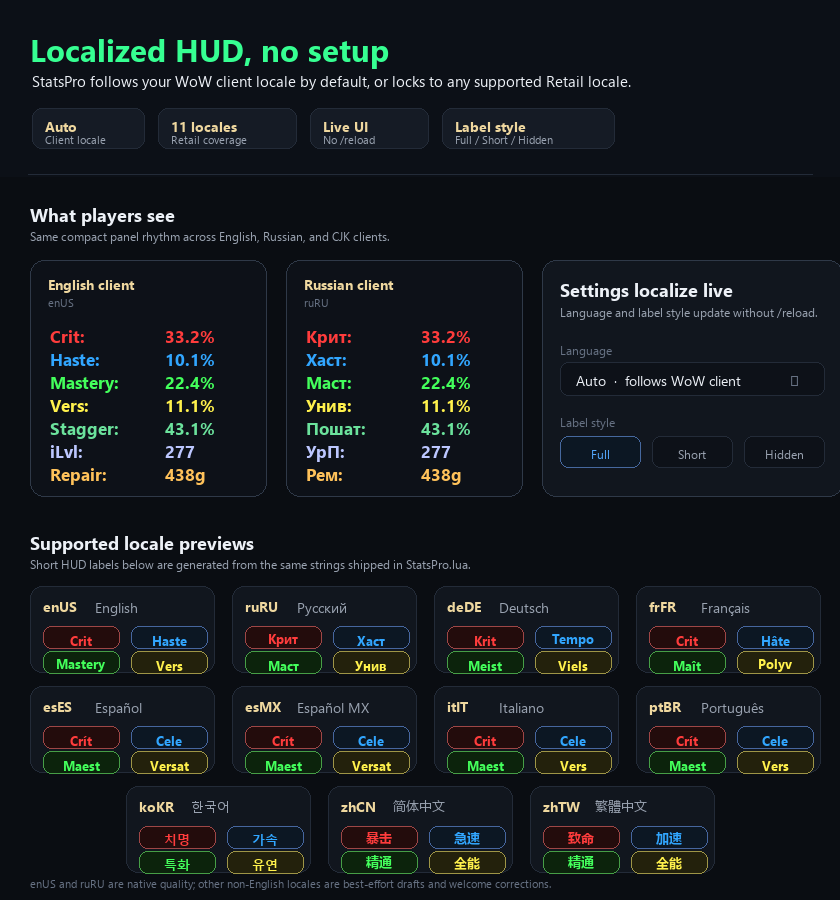
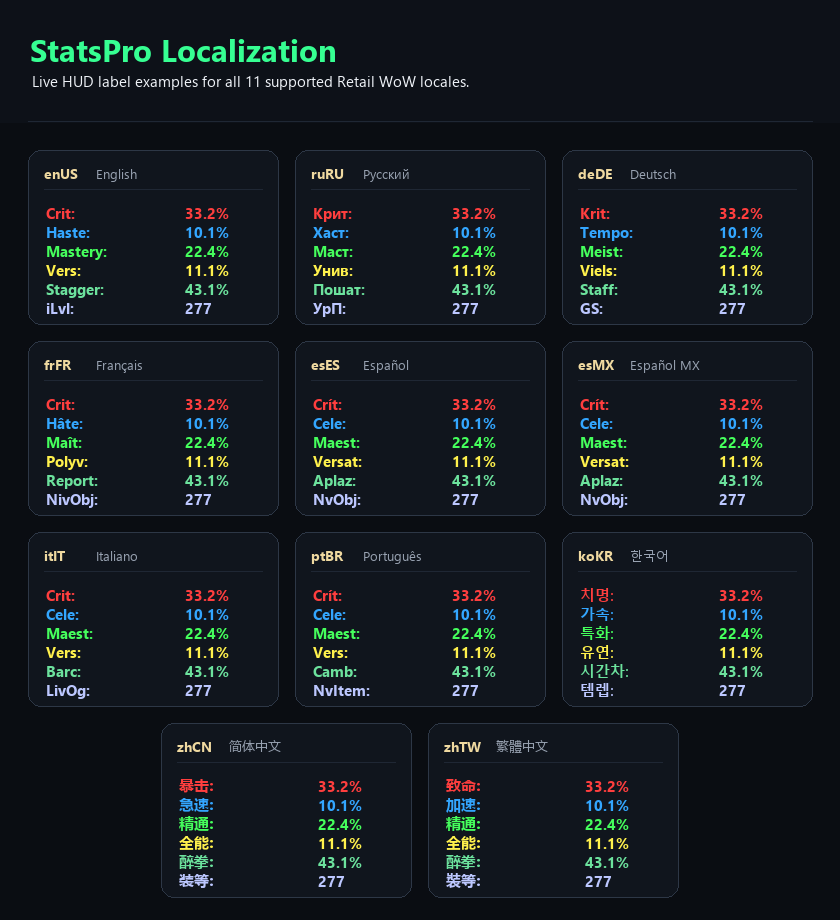
docs: show all localized HUD previews

diff --git a/README.md b/README.md
@@ -105,7 +105,7 @@ Stat labels render in your WoW client's language by default — no setup require
 Curated short-form translations across all 11 retail WoW locales preserve the same
 compact 4-7 char visual rhythm as the original English labels:
 
-![StatsPro localization preview — localized HUD examples, live settings controls, and supported locale cards](screenshots/localization.png)
+![StatsPro localization preview — live HUD label examples for all 11 supported Retail WoW locales](screenshots/localization.png)
 
 | Locale | Sample row |
 |---|---|